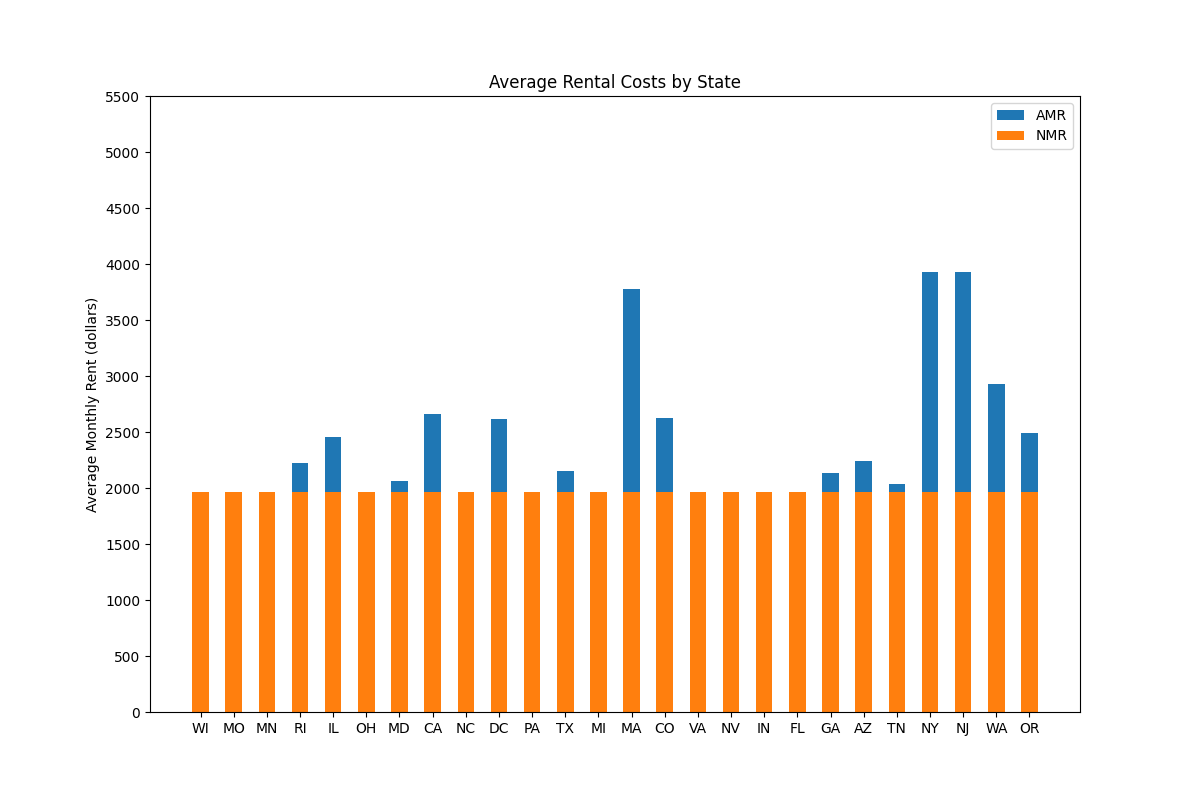
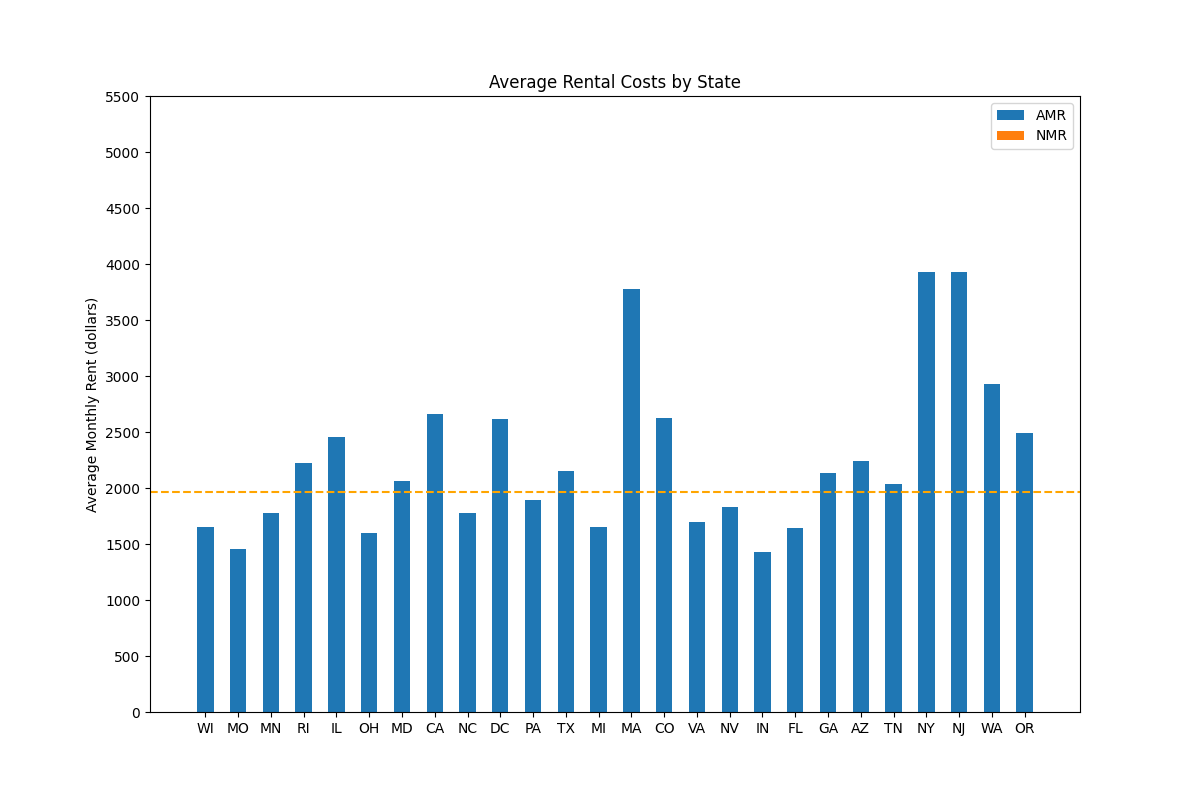
Final Project Updates

Changed region(s): [[0.1542, 0.3438, 0.8942, 0.9375]]

diff --git a/FinalProject.py b/FinalProject.py
@@ -79,7 +79,9 @@ def main():
     fig = plt.subplots(figsize = (12,8))
     
     p1 = plt.bar(ind, Average_Monthly_Rent, width)
-    p2 = plt.bar(ind, NAB, width)
+    p2 = plt.bar(ind,0)
+    p3 = plt.axhline(y = NAB, color = 'orange', linestyle = 'dashed')
+    #p2 = plt.bar(ind, NAB, width)
     
     plt.ylabel("Average Monthly Rent (dollars)")
     plt.title("Average Rental Costs by State")
